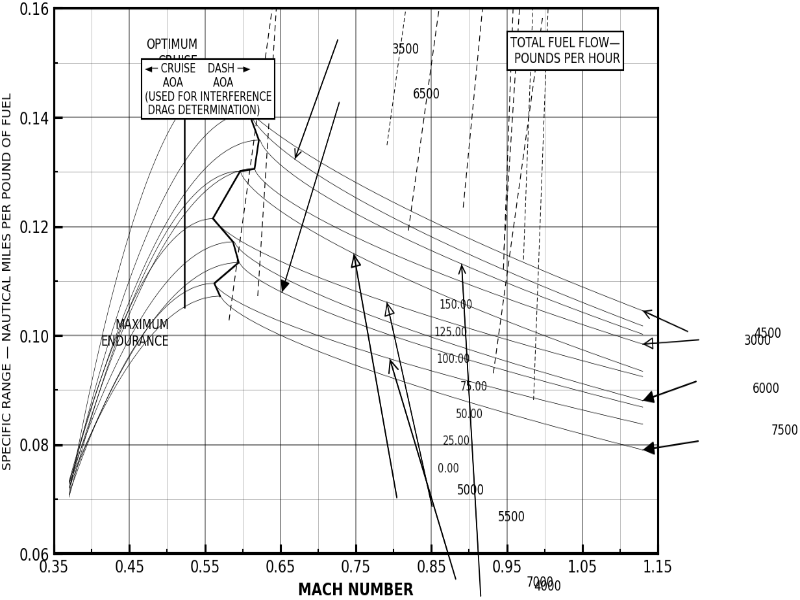
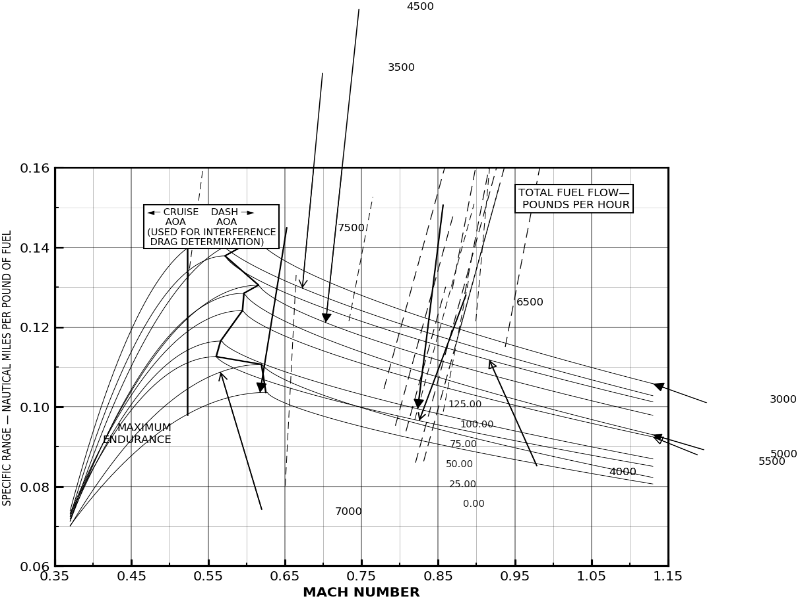
readme added to share

diff --git a/new_approach/synthetic/synthetic_v5.py b/new_approach/synthetic/synthetic_v5.py
@@ -527,7 +527,7 @@ def draw_chart_matplotlib(
                 dash_start = (base_x, base_y)
                 dash_end = (dash_start[0] + dash_dx, dash_start[1] + dash_dy)
                 ax1.plot([dash_start[0], dash_end[0]], [dash_start[1], dash_end[1]],
-                        color="black", linewidth=0.6, linestyle=(0, (6, 4)))
+                    color="black", linewidth=0.6, linestyle=(0, (14, 8)))
             
             # Fuel flow label (after dashed line)
             label_x = x_tail + random.uniform(0.06, 0.10)
@@ -546,7 +546,7 @@ def draw_chart_matplotlib(
             dash_dx = dash_len * math.cos(dash_angle)
             dash_dy = dash_len * math.sin(dash_angle)
             ax1.plot([cx, cx + dash_dx], [cy, cy + dash_dy],
-                    color="black", linewidth=0.5, linestyle=(0, (5, 3)))
+                    color="black", linewidth=0.5, linestyle=(0, (12, 7)))
     
     # Text boxes
     if config.add_text_boxes:
